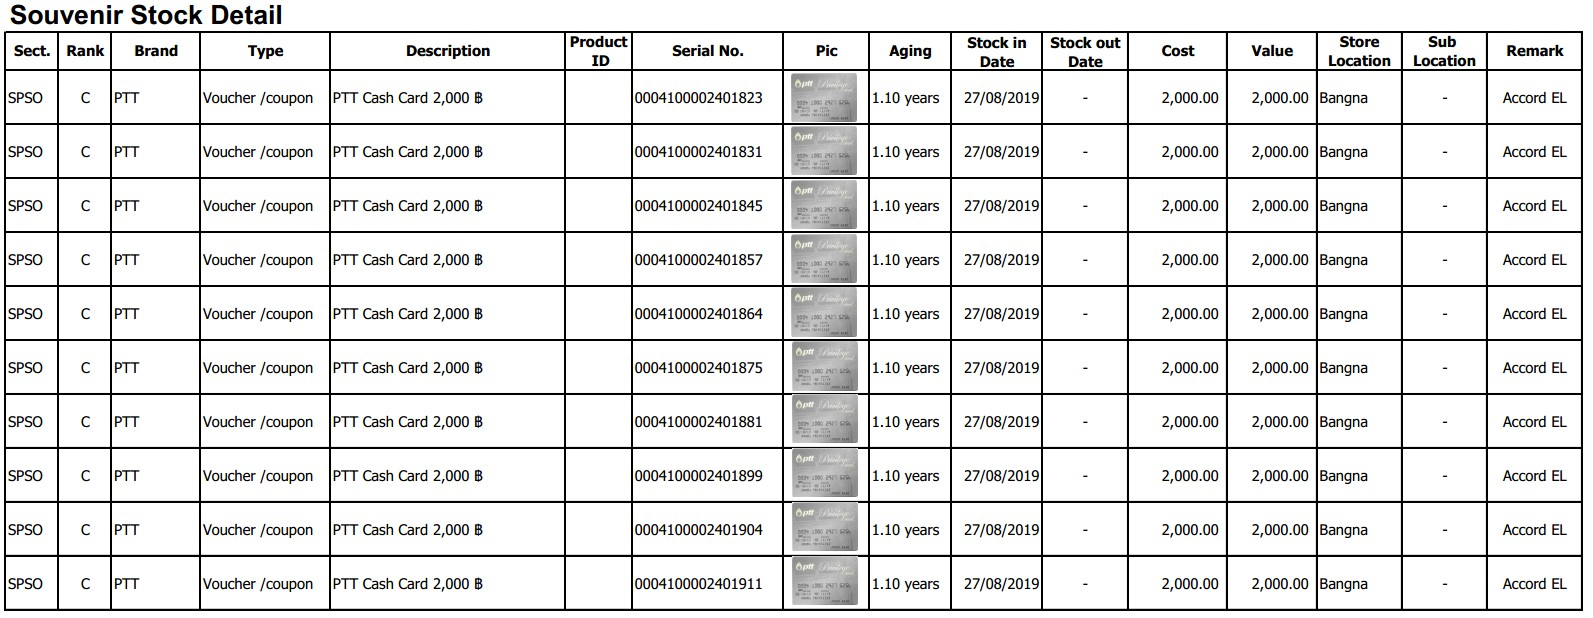
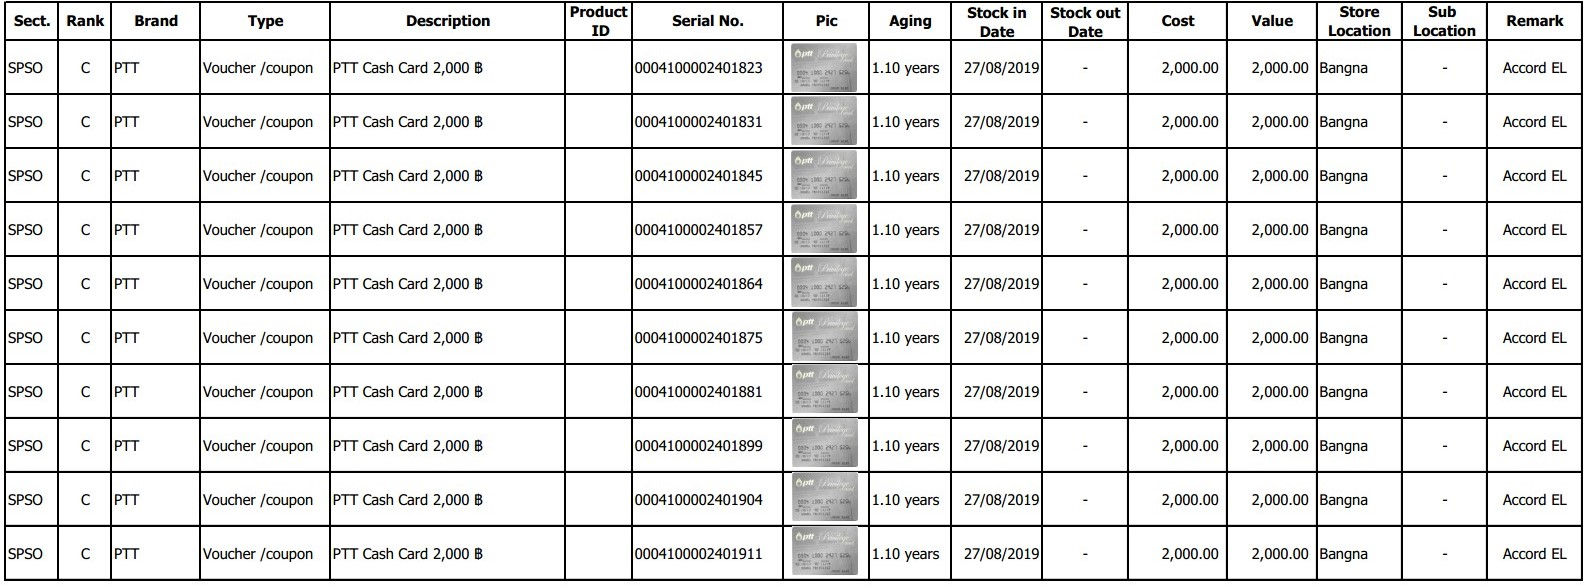
Change Text Name

Changed region(s): [[0.0, 0.0, 1.0, 1.0]]

diff --git a/index4.html b/index4.html
@@ -270,7 +270,7 @@
                   <li class="sidebar-item">
                     <a href="index4.html" class="sidebar-link"
                       ><i class="mdi mdi-note-plus"></i
-                      ><span class="hide-menu"> Summary Souvenir Stock </span></a
+                      ><span class="hide-menu"> Souvenir Stock Detail </span></a
                     >
                   </li>
 
@@ -338,13 +338,13 @@
         <div class="page-breadcrumb">
           <div class="row">
             <div class="col-12 d-flex no-block align-items-center">
-              <h4 class="page-title">Summary Souvenir Stock</h4>
+              <h4 class="page-title">Souvenir Stock Detail</h4>
               <div class="ms-auto text-end">
                 <nav aria-label="breadcrumb">
                   <ol class="breadcrumb">
                     <li class="breadcrumb-item"><a href="#">รายงาน</a></li>
                     <li class="breadcrumb-item active" aria-current="page">
-                      Summary Souvenir Stock
+                      Souvenir Stock Detail
                     </li>
                   </ol>
                 </nav>
@@ -353,7 +353,7 @@
           </div>
         </div>
         <section> 
-          <img src="/Pic/5.png" alt="HTML5 Icon" style="width: 100%; height: 100%;">
+          <img src="/Pic/5.jpg" alt="HTML5 Icon" style="width: 100%; height: 100%;">
         </section>
         <!-- ============================================================== -->
         <!-- End Bread crumb and right sidebar toggle -->

diff --git a/html/index4.html b/html/index4.html
@@ -270,7 +270,7 @@
                   <li class="sidebar-item">
                     <a href="index4.html" class="sidebar-link"
                       ><i class="mdi mdi-note-plus"></i
-                      ><span class="hide-menu"> Summary Souvenir Stock </span></a
+                      ><span class="hide-menu"> Souvenir Stock Detail </span></a
                     >
                   </li>
 
@@ -338,13 +338,13 @@
         <div class="page-breadcrumb">
           <div class="row">
             <div class="col-12 d-flex no-block align-items-center">
-              <h4 class="page-title">Summary Souvenir Stock</h4>
+              <h4 class="page-title">Souvenir Stock Detail</h4>
               <div class="ms-auto text-end">
                 <nav aria-label="breadcrumb">
                   <ol class="breadcrumb">
                     <li class="breadcrumb-item"><a href="#">รายงาน</a></li>
                     <li class="breadcrumb-item active" aria-current="page">
-                      Summary Souvenir Stock
+                      Souvenir Stock Detail
                     </li>
                   </ol>
                 </nav>

diff --git a/html/index.html b/html/index.html
@@ -320,7 +320,7 @@
                   <li class="sidebar-item">
                     <a href="index4.html" class="sidebar-link"
                       ><i class="mdi mdi-note-plus"></i
-                      ><span class="hide-menu"> Summary Souvenir Stock </span></a
+                      ><span class="hide-menu"> Souvenir Stock Detail </span></a
                     >
                   </li>
 

diff --git a/html/index1.html b/html/index1.html
@@ -320,7 +320,7 @@
                   <li class="sidebar-item">
                     <a href="index4.html" class="sidebar-link"
                       ><i class="mdi mdi-note-plus"></i
-                      ><span class="hide-menu"> Summary Souvenir Stock </span></a
+                      ><span class="hide-menu"> Souvenir Stock Detail </span></a
                     >
                   </li>
 

diff --git a/html/index2.html b/html/index2.html
@@ -271,7 +271,7 @@
                   <li class="sidebar-item">
                     <a href="index4.html" class="sidebar-link"
                       ><i class="mdi mdi-note-plus"></i
-                      ><span class="hide-menu"> Summary Souvenir Stock </span></a
+                      ><span class="hide-menu"> Souvenir Stock Detail </span></a
                     >
                   </li>
 

diff --git a/html/index3.html b/html/index3.html
@@ -270,7 +270,7 @@
                   <li class="sidebar-item">
                     <a href="index4.html" class="sidebar-link"
                       ><i class="mdi mdi-note-plus"></i
-                      ><span class="hide-menu"> Summary Souvenir Stock </span></a
+                      ><span class="hide-menu"> Souvenir Stock Detail </span></a
                     >
                   </li>
 

diff --git a/html/index5.html b/html/index5.html
@@ -272,7 +272,7 @@
                   <li class="sidebar-item">
                     <a href="index4.html" class="sidebar-link"
                       ><i class="mdi mdi-note-plus"></i
-                      ><span class="hide-menu"> Summary Souvenir Stock </span></a
+                      ><span class="hide-menu"> Souvenir Stock Detail </span></a
                     >
                   </li>
 

diff --git a/html/index6.html b/html/index6.html
@@ -272,7 +272,7 @@
                   <li class="sidebar-item">
                     <a href="index4.html" class="sidebar-link"
                       ><i class="mdi mdi-note-plus"></i
-                      ><span class="hide-menu"> Summary Souvenir Stock </span></a
+                      ><span class="hide-menu"> Souvenir Stock Detail </span></a
                     >
                   </li>
 

diff --git a/html/index7.html b/html/index7.html
@@ -270,7 +270,7 @@
                   <li class="sidebar-item">
                     <a href="index4.html" class="sidebar-link"
                       ><i class="mdi mdi-note-plus"></i
-                      ><span class="hide-menu"> Summary Souvenir Stock </span></a
+                      ><span class="hide-menu"> Souvenir Stock Detail </span></a
                     >
                   </li>
 

diff --git a/html/index8.html b/html/index8.html
@@ -270,7 +270,7 @@
                   <li class="sidebar-item">
                     <a href="index4.html" class="sidebar-link"
                       ><i class="mdi mdi-note-plus"></i
-                      ><span class="hide-menu"> Summary Souvenir Stock </span></a
+                      ><span class="hide-menu"> Souvenir Stock Detail </span></a
                     >
                   </li>
 

diff --git a/html/index9.html b/html/index9.html
@@ -471,7 +471,7 @@
                   <li class="sidebar-item">
                     <a href="index4.html" class="sidebar-link"
                       ><i class="mdi mdi-note-plus"></i
-                      ><span class="hide-menu"> Summary Souvenir Stock </span></a
+                      ><span class="hide-menu"> Souvenir Stock Detail </span></a
                     >
                   </li>
 

diff --git a/index.html b/index.html
@@ -320,7 +320,7 @@
                   <li class="sidebar-item">
                     <a href="index4.html" class="sidebar-link"
                       ><i class="mdi mdi-note-plus"></i
-                      ><span class="hide-menu"> Summary Souvenir Stock </span></a
+                      ><span class="hide-menu"> Souvenir Stock Detail </span></a
                     >
                   </li>
 
